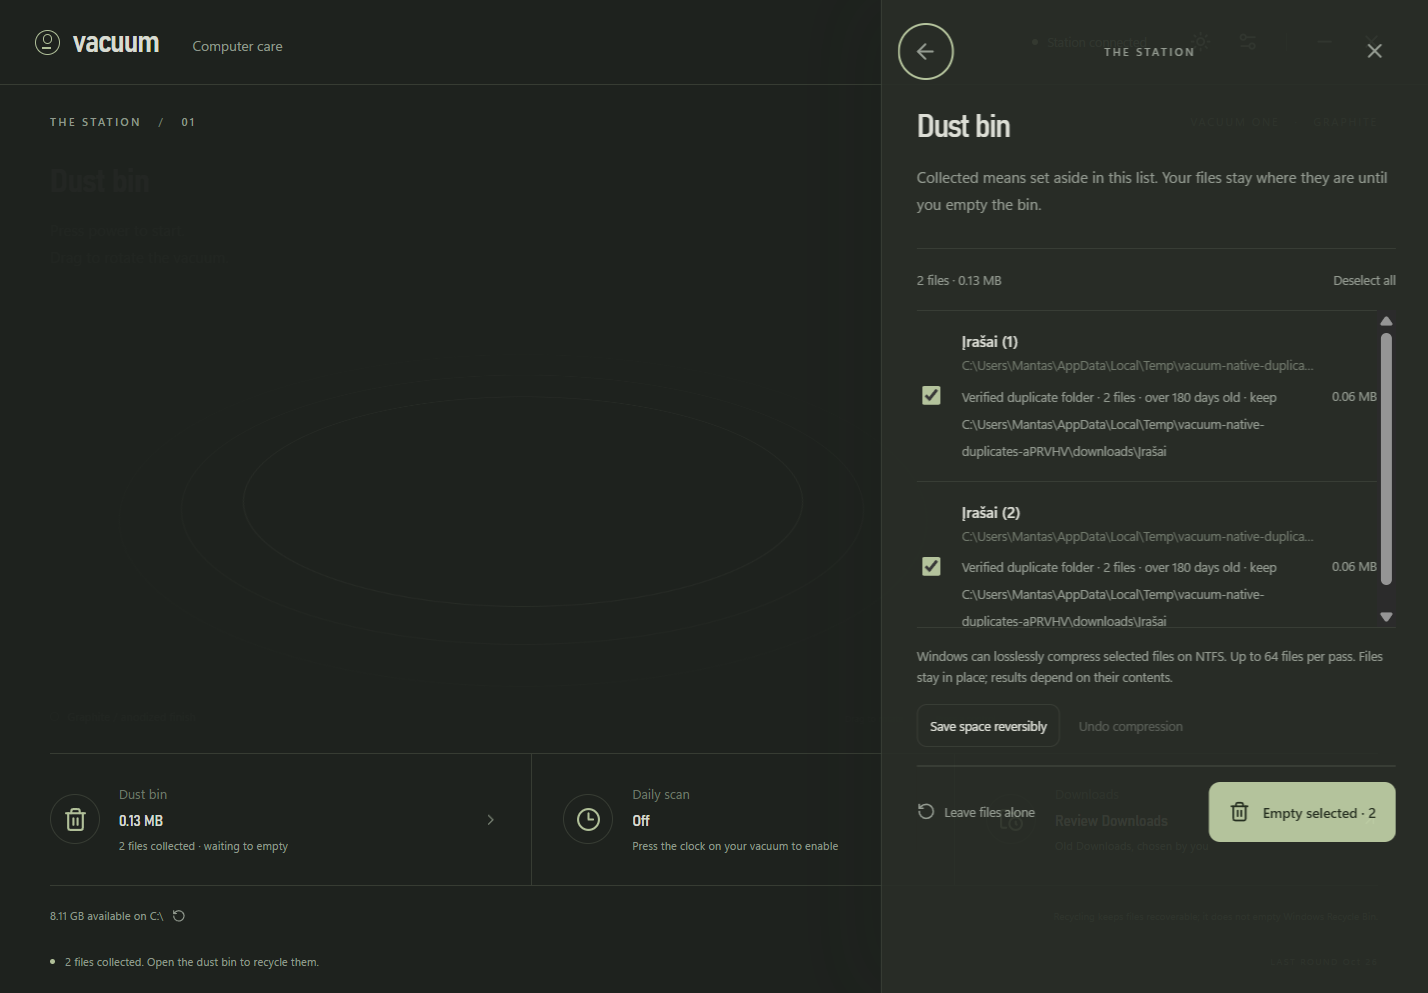
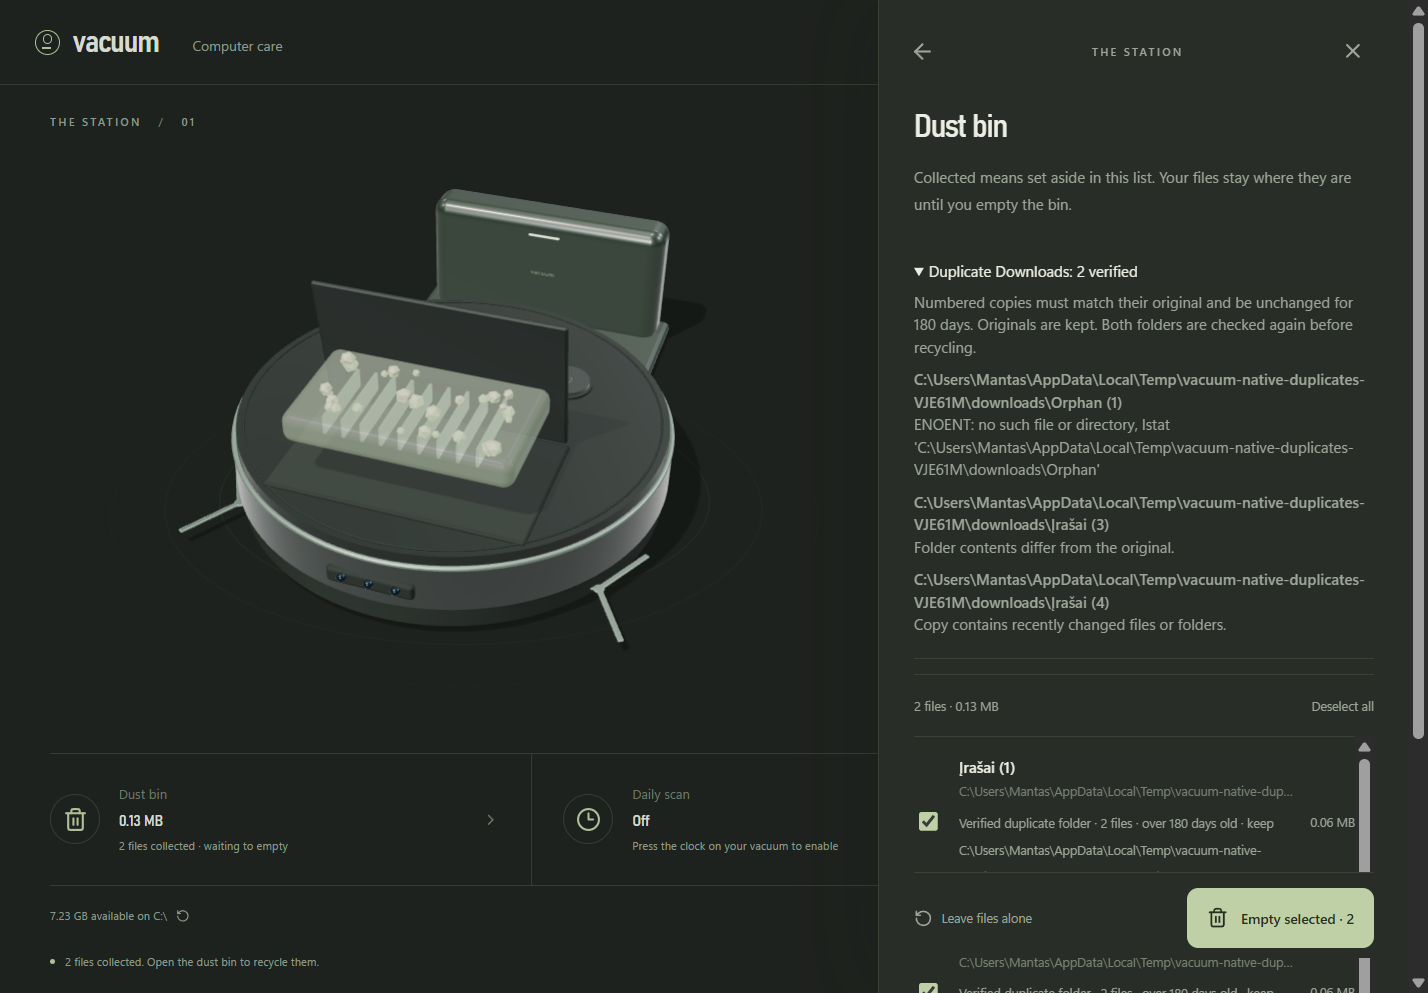
Show duplicate-folder verification and skip reasons in the bin

diff --git a/src/main.jsx b/src/main.jsx
@@ -531,34 +531,6 @@ function App() {
                 <p className="sheet-intro">
                   Choose when Vacuum runs and how it appears.
                 </p>
-                {panel === "bin" && s.coverage?.duplicateFolders && (
-                  <details className="duplicate-review">
-                    <summary>
-                      Duplicate Downloads:{" "}
-                      {s.coverage.duplicateFolders.verified} verified
-                    </summary>
-                    <p>
-                      Numbered copies must match their original and be unchanged
-                      for 180 days. Originals are kept. Both folders are checked
-                      again before recycling.
-                    </p>
-                    {s.coverage.duplicateFolders.skipped
-                      .slice(0, 10)
-                      .map((item) => (
-                        <p key={item.path}>
-                          <strong>{item.path}</strong>
-                          <br />
-                          {item.reason}
-                        </p>
-                      ))}
-                    {s.coverage.duplicateFolders.skipped.length > 10 && (
-                      <p>
-                        {s.coverage.duplicateFolders.skipped.length - 10} more
-                        folders were kept.
-                      </p>
-                    )}
-                  </details>
-                )}
                 <div className="setting-row">
                   <div>
                     <h3>Daily autoclean</h3>
@@ -689,6 +661,34 @@ function App() {
                     ? "Downloads untouched for at least 180 days. Age is a hint, never a reason to delete. Choose only what you no longer need."
                     : "Collected means set aside in this list. Your files stay where they are until you empty the bin."}
                 </p>
+                {panel === "bin" && s.coverage?.duplicateFolders && (
+                  <details className="duplicate-review">
+                    <summary>
+                      Duplicate Downloads:{" "}
+                      {s.coverage.duplicateFolders.verified} verified
+                    </summary>
+                    <p>
+                      Numbered copies must match their original and be unchanged
+                      for 180 days. Originals are kept. Both folders are checked
+                      again before recycling.
+                    </p>
+                    {s.coverage.duplicateFolders.skipped
+                      .slice(0, 10)
+                      .map((item) => (
+                        <p key={item.path}>
+                          <strong>{item.path}</strong>
+                          <br />
+                          {item.reason}
+                        </p>
+                      ))}
+                    {s.coverage.duplicateFolders.skipped.length > 10 && (
+                      <p>
+                        {s.coverage.duplicateFolders.skipped.length - 10} more
+                        folders were kept.
+                      </p>
+                    )}
+                  </details>
+                )}
                 {panel === "bin" &&
                   (s.recovery?.pending ||
                     s.recovery?.recovered > 0 ||

diff --git a/README.md b/README.md
@@ -12,7 +12,7 @@ Reproducible native checks: `node scripts/verify-storage.cjs`, `node scripts/ver
 
 ## Use it
 
-Download [Vacuum 0.3.5](https://github.com/TMBeaver/vacuum/releases/tag/v0.3.5). The current-user installer creates Desktop and Start menu shortcuts. You can also run `release/win-unpacked/Vacuum.exe` from a local build. Closing the station leaves Vacuum in the tray.
+Download [Vacuum 0.3.6](https://github.com/TMBeaver/vacuum/releases/tag/v0.3.6). The current-user installer creates Desktop and Start menu shortcuts. You can also run `release/win-unpacked/Vacuum.exe` from a local build. Closing the station leaves Vacuum in the tray.
 
 Click the Vacuum icon beside the Windows clock (possibly inside the hidden-icons arrow) for a small interactive 3D robot. Press power, home or the dust hatch directly on its body. Its bin opens inside the popup, with file selection and explicit recycling confirmation. Right-click opens custom controls beside the full robot: cleaning, review shortcuts, mode switches and robot finishes. The same controls open from the three-dot header button; Settings and Quit stay pinned below. Double-click opens the full station. The small dot-and-Cleaning badge has been removed. Settings remain shared between all views. See [tray verification](docs/tray-control.md).
 
